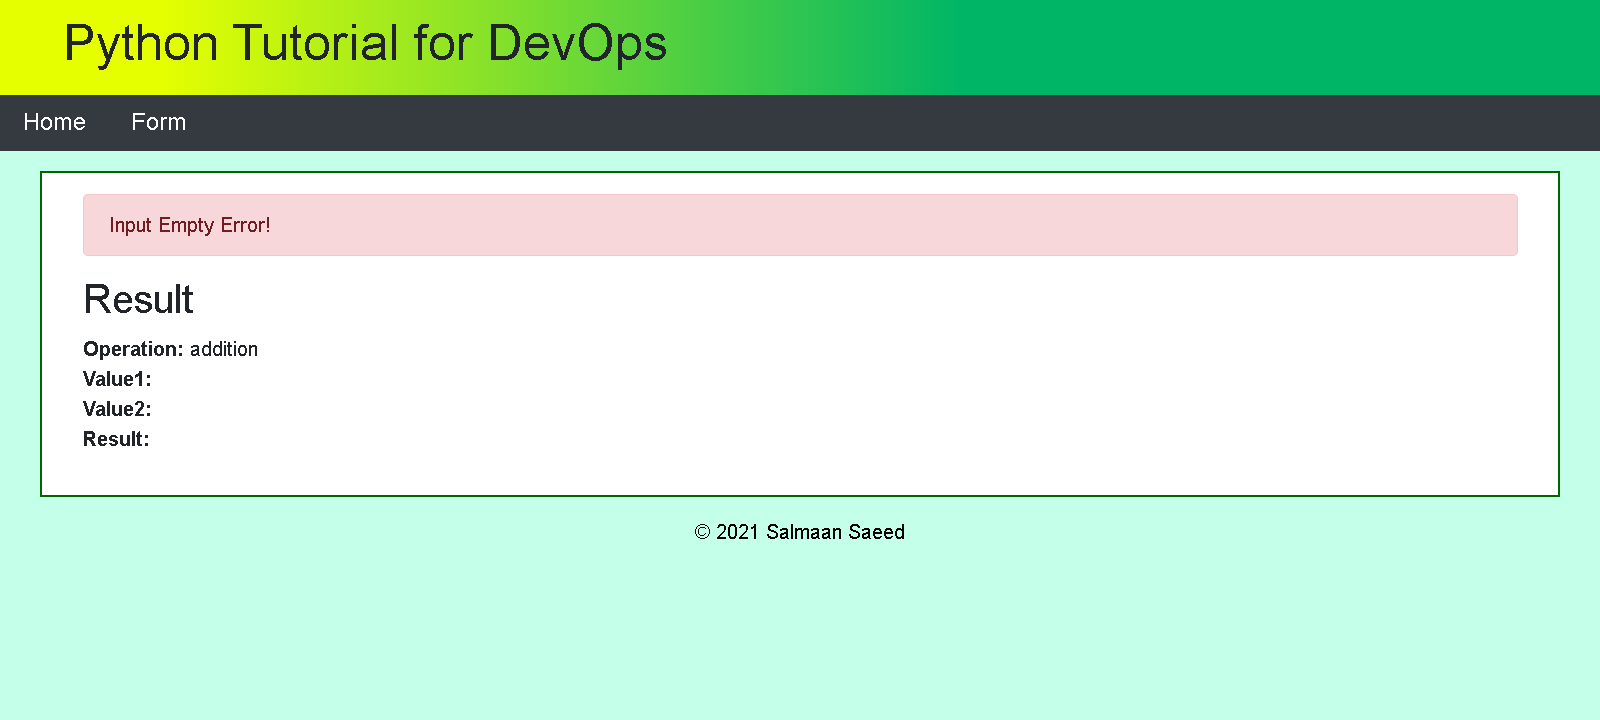
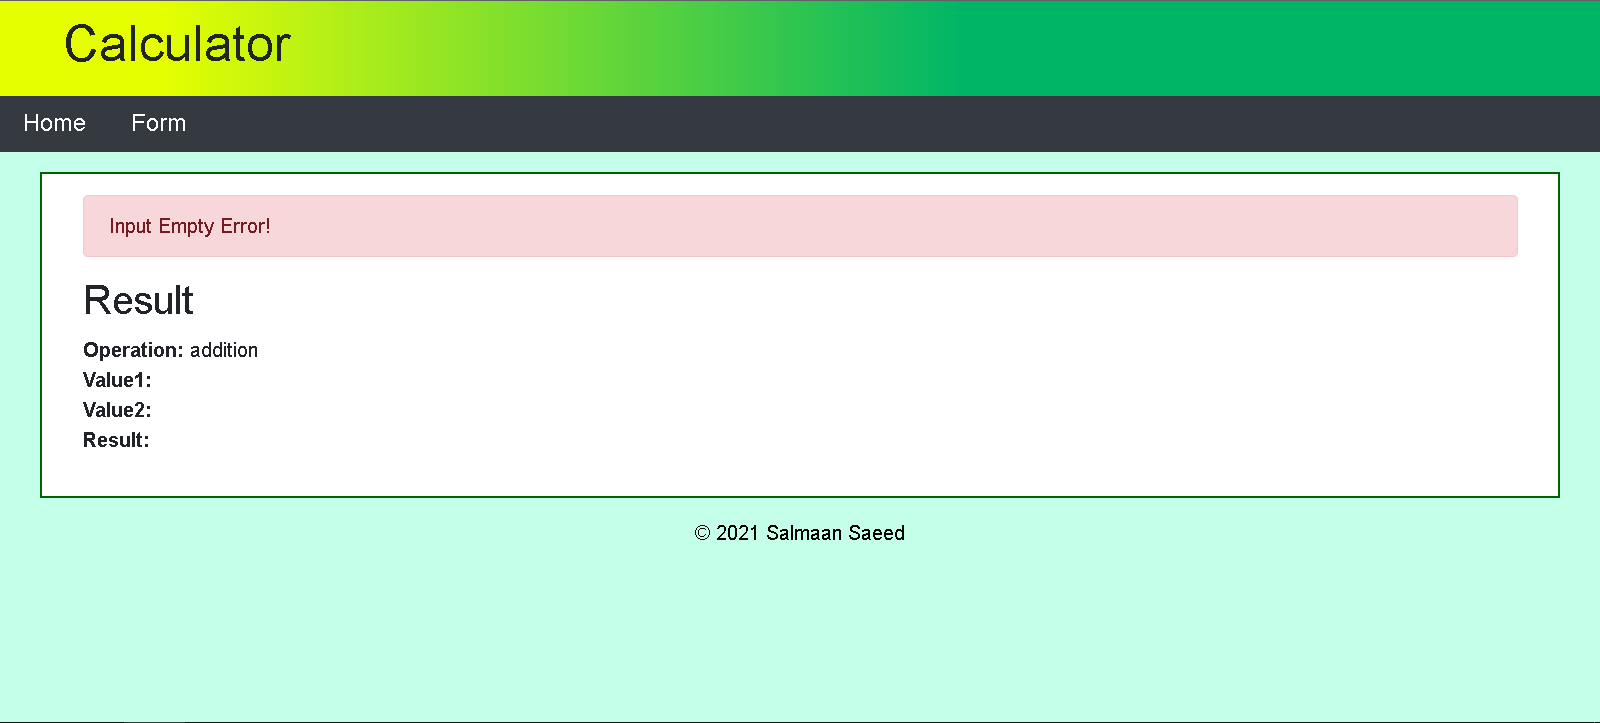
Updated the website's main title and title tab

diff --git a/app/templates/base.html b/app/templates/base.html
@@ -3,7 +3,7 @@
     <head>
         {% block head %}
         <!-- Browser tab's title -->
-        <title> DevOps Python Tutorial  </title>
+        <title> Calculator  </title>
         <!-- Browser tab icon -->
         <link rel="shortcut icon" href="../static/images/devops.ico">
         <!-- Bootstrap 4 -->
@@ -20,7 +20,7 @@
     <body>
         <header>
             {% block navigation %}
-            <h1>Python Tutorial for DevOps</h1>
+            <h1> Calculator </h1>
             <!-- Navigation Bar -->
             <nav class="navbar navbar-expand navbar-dark bg-dark m">
                 <div class="collapse navbar-collapse" id="navbarNav">
